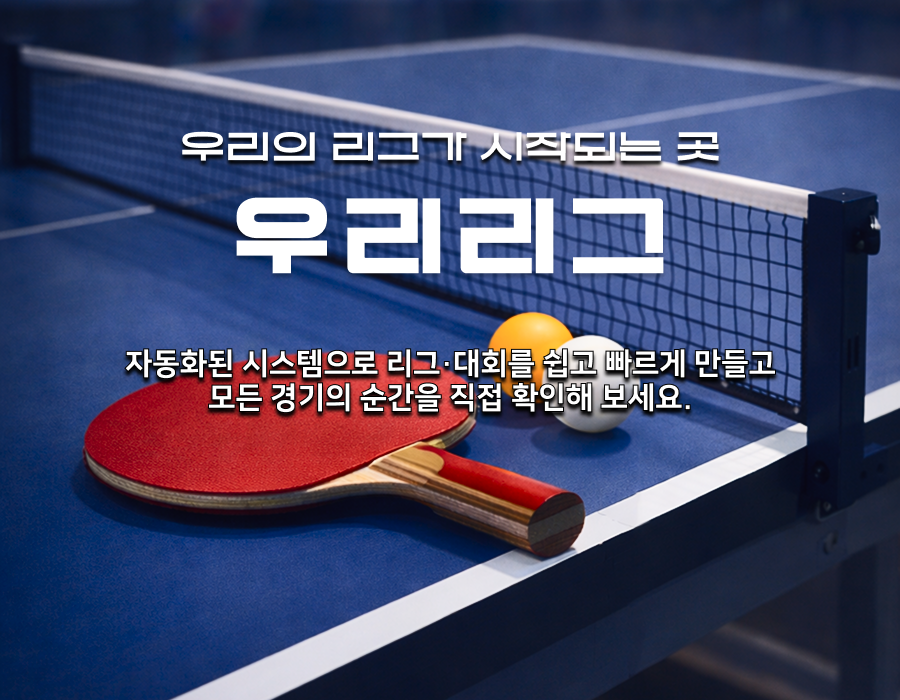
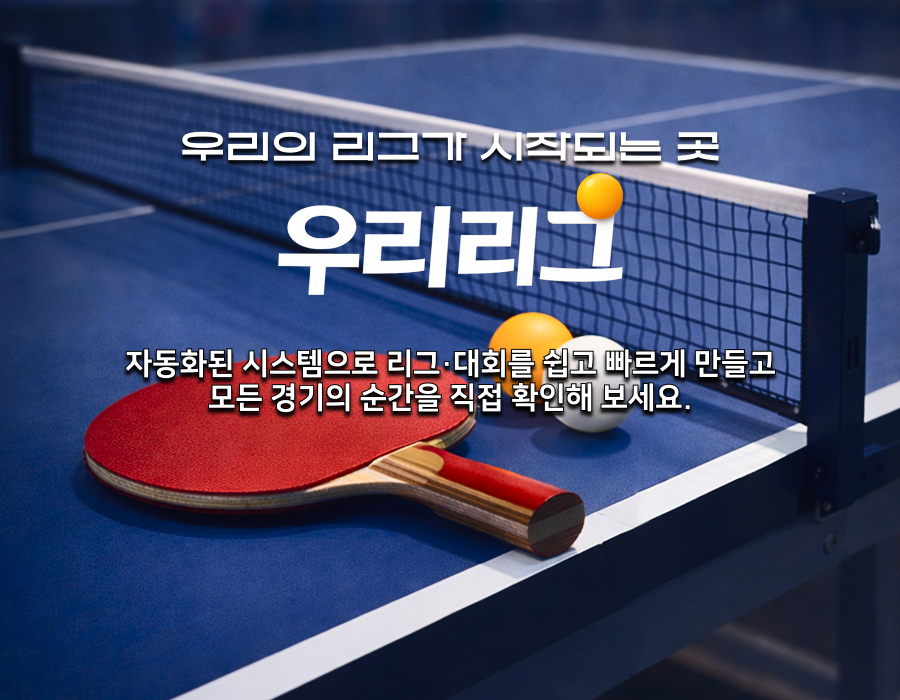
홈 배너 변경

Changed region(s): [[0.2489, 0.24, 0.7467, 0.42]]

diff --git a/3ch-web/src/components/AppShell.tsx b/3ch-web/src/components/AppShell.tsx
@@ -13,7 +13,6 @@ import { setPreferredGroupId } from "../features/league/leagueCreationSlice";
 import { useGetMyGroupsQuery } from "../features/group/groupApi";
 import logo from "../assets/512_우리리그 로고.svg";
 import SettingsIcon from "@mui/icons-material/Settings";
-import homeLogo from "../assets/192_화이트_우리리그.png"
 import homeHeaderBg from "../assets/메인 배너_900x700_버튼X.png"
 // import NotificationsNoneIcon from "@mui/icons-material/NotificationsNone";
 
@@ -182,7 +181,7 @@ export default function AppShell() {
                                 backgroundRepeat: "no-repeat",
                             }}
                         >
-                            <Box
+                            {/* <Box
                                 component={Link}
                                 to="/"
                                 sx={{
@@ -197,7 +196,7 @@ export default function AppShell() {
                                 }}
                             >
                                 <img src={homeLogo} alt="우리리그" style={{ height: 20 }} />
-                            </Box>
+                            </Box> */}
 
                             <Box
                                 sx={{
